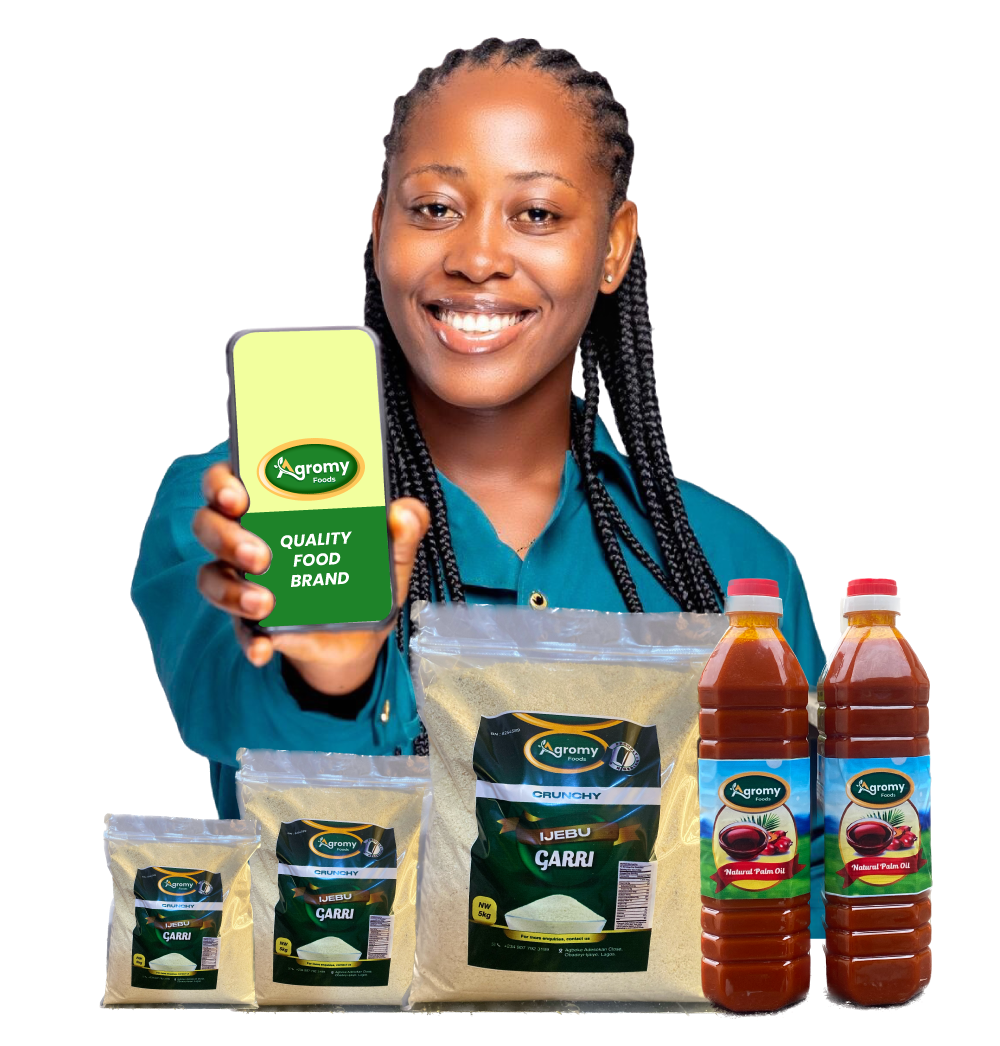
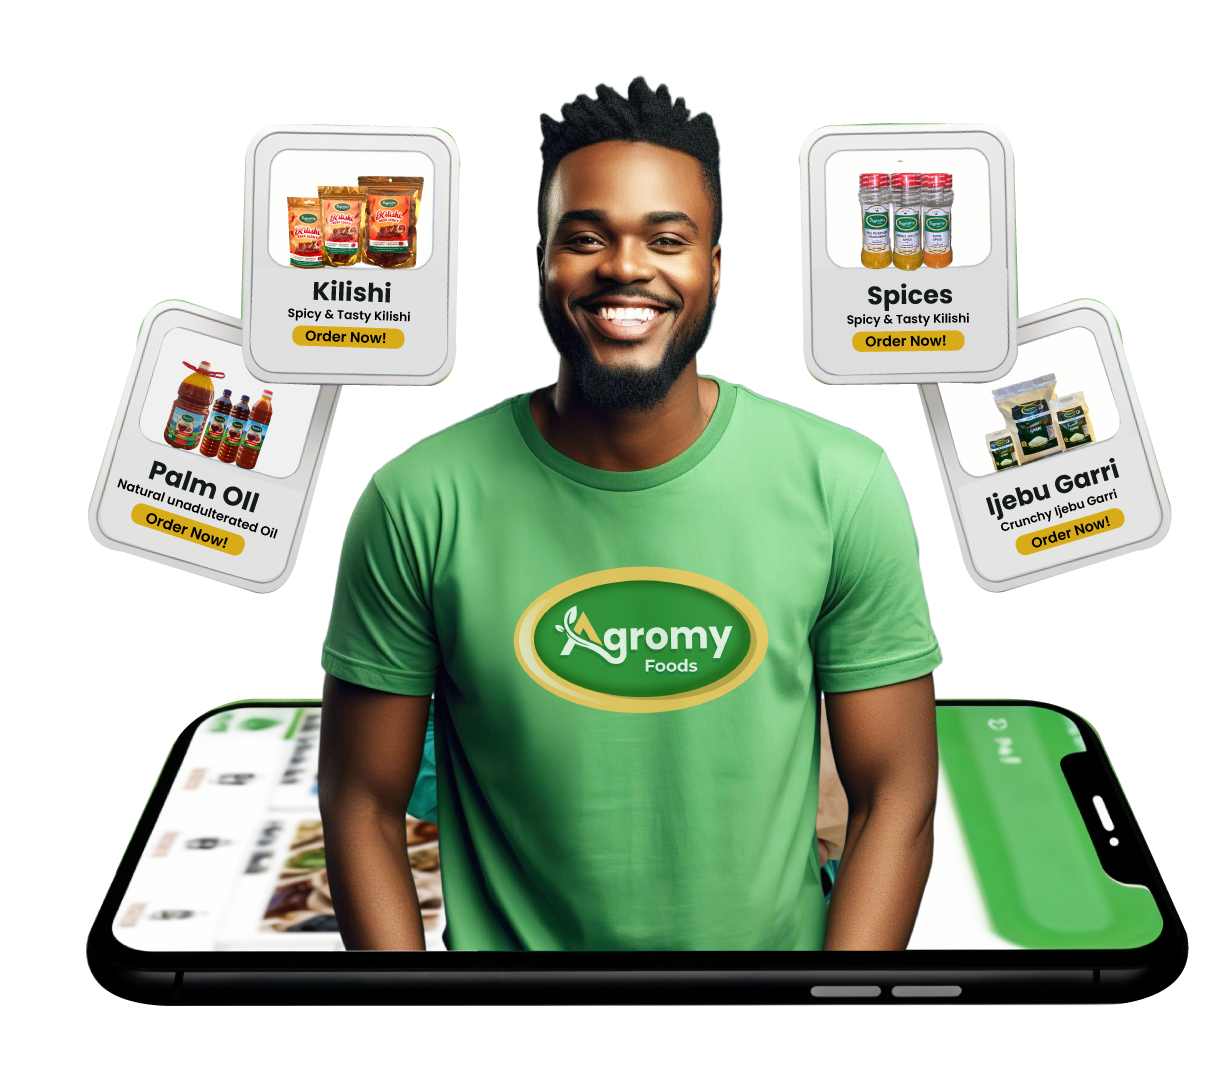
update website

diff --git a/app/page.tsx b/app/page.tsx
@@ -12,52 +12,157 @@ import CountUpSection from '@/components/CountUpSection';
 const FEATURED_PRODUCTS = [
   {
     id: '1',
-    name: 'Jollof Rice with Chicken',
-    description: 'Spicy jollof rice served with grilled chicken and plantains',
-    price: 2500,
-    image: 'https://images.unsplash.com/photo-1604329760661-e71dc83f8f26?w=800&auto=format&fit=crop&q=60',
-    category: 'Main Dish',
+    name: 'Ijebu Garri 1kg',
+    description: 'Super Cruncy Ijebu Garri',
+    price: 2000,
+    image:  "/img/Garri-1kg.jpg",
+    category: 'Ijebu Garri',
   },
   {
     id: '2',
-    name: 'Egusi Soup with Pounded Yam',
-    description: 'Traditional Nigerian egusi soup served with smooth pounded yam',
-    price: 3000,
-    image: 'https://images.unsplash.com/photo-1643275590906-abe3e90ea426?w=800&auto=format&fit=crop&q=60',
-    category: 'Soup',
+    name:  'Ijebu Garri 2kg',
+    description: 'Super Cruncy Ijebu Garri',
+    price: 4000,
+    image: "/img/Garri-2kg.jpg",
+    category:'Ijebu Garri',
   },
   {
     id: '3',
-    name: 'Suya Platter',
-    description: 'Spicy grilled beef skewers with onions and tomatoes',
-    price: 2200,
-    image: 'https://images.unsplash.com/photo-1544025162-d76694265947?w=800&auto=format&fit=crop&q=60',
-    category: 'Appetizer',
+      name: 'Ijebu Garri 2.5kg',
+      description: 'Super Cruncy Ijebu Garri',
+      price: 5000,
+      image:  "/img/Garri-2.5kg.jpg",
+      category: 'Ijebu Garri',
   },
   {
     id: '4',
-    name: 'Moin Moin with Fried Rice',
-    description: 'Steamed bean pudding served with colorful fried rice',
-    price: 2800,
-    image: 'https://images.unsplash.com/photo-1567620832903-9fc6debc209f?w=800&auto=format&fit=crop&q=60',
-    category: 'Main Dish',
+    name: 'Ijebu Garri 5kg',
+    description: 'Super Cruncy Ijebu Garri',
+    price: 10000,
+    image: "/img/Garri-5kg.jpg" ,
+    category: 'Ijebu Garri',
   },
-  {
+ {
     id: '5',
-    name: 'Pepper Soup',
-    description: 'Spicy and aromatic meat soup with herbs and spices',
-    price: 1800,
-    image: 'https://images.unsplash.com/photo-1563379926898-05f4575a45d8?w=800&auto=format&fit=crop&q=60',
-    category: 'Soup',
+    name: 'Kilishi 50grams',
+    description: 'Spicy and tasty beef jerky(kilishi)',
+    price: 2500,
+    image:  "/img/K50.jpg",
+    category: 'Kilishi',
   },
   {
     id: '6',
-    name: 'Akara with Pap',
-    description: 'Fried bean cakes served with sweet corn porridge',
-    price: 1500,
-    image: 'https://images.unsplash.com/photo-1546549032-9571cd6b27df?w=800&auto=format&fit=crop&q=60',
-    category: 'Breakfast',
+    name: 'Kilishi 100grams',
+    description: 'Spicy and tasty beef jerky(kilishi)',
+    price: 3000,
+    image: "/img/K100.jpg",
+    category: 'Kilishi',
   },
+  {
+    id: '7',
+    name: 'Kilishi 250grams',
+    description: 'Spicy and tasty beef jerky(kilishi)',
+    price: 7000,
+    image: "/img/K250.jpg",
+    category: 'Kilishi',
+  },
+  {
+    id: '8',
+    name: 'Kilishi 500grams',
+    description: 'Spicy and tasty beef jerky(kilishi)',
+    price: 14500,
+    image: "/img/K500.jpg",
+    category: 'Kilishi',
+  },
+  {
+    id: '9',
+    name: 'Kilishi 1kg',
+    description: 'Spicy and tasty beef jerky(kilishi)',
+    price: 28000,
+    image: "/img/K1kg.jpg",
+    category: 'Kilishi',
+  },
+  {
+    id: '10',
+    name: 'Palm oil 75cl',
+    description: 'Natural, unadulterated palm oil',
+    price: 2000,
+    image: "/img/P75.jpg",
+    category: 'Palm oil',
+  },
+  {
+    id: '11',
+    name: 'Palm oil 1litre',
+    description: 'Natural, unadulterated palm oil',
+    price: 2500,
+    image: "/img/P1L.jpg",
+    category: 'Palm oil',
+  },
+  {
+    id: '12',
+    name: 'Palm oil 5litres',
+    description: 'Natural, unadulterated palm oil',
+    price: 2000,
+    image: "/img/P25.jpg",
+    category: 'Palm oil',
+ },
+ {
+  id: '13',
+  name: 'Palm oil 25litres',
+  description: 'Natural, unadulterated palm oil',
+  price: 48000,
+  image: "/img/P25L.jpg",
+  category: 'Palm oil',
+},
+{
+  id: '14',
+  name: 'Curry Masala Spice 100gram',
+  description: 'Natural, Quality Spice',
+  price: 2500,
+  image: "/img/CURRY.jpg",
+  category:'Spices',
+},
+{
+  id: '15',
+  name: 'Peppersoup Spice 100grams',
+  description: 'Natural, Quality Spice',
+  price: 2500,
+  image: "/img/PEPPERSOUP.jpg",
+  category:'Spices',
+},
+{
+  id: '16',
+  name: 'Suya spice 100grams',
+  description: 'Natural, Quality Spice',
+  price: 2500,
+  image: "/img/SUYA.jpg",
+  category:'Spices',
+},
+{
+  id: '17',
+  name: 'Ginger, garlic & onions 100grams',
+  description: 'Natural, Quality Spice',
+  price: 2500,
+  image: "/img/GGO.jpg",
+  category:'Spices',
+},
+{
+  id: '18',
+  name: ' All purpose spice 100grams',
+  description: 'Natural, Quality Spice',
+  price: 2500,
+  image: "/img/ALL.jpg",
+  category:'Spices',
+},
+{
+  id: '19',
+  name: ' Jollof Spice 100grams',
+  description: 'Natural, Quality Spice',
+  price: 2500,
+  image: "/img/Jollof.jpg",
+  category:'Spices',
+},
+
 ];
 
 // Testimonials data
